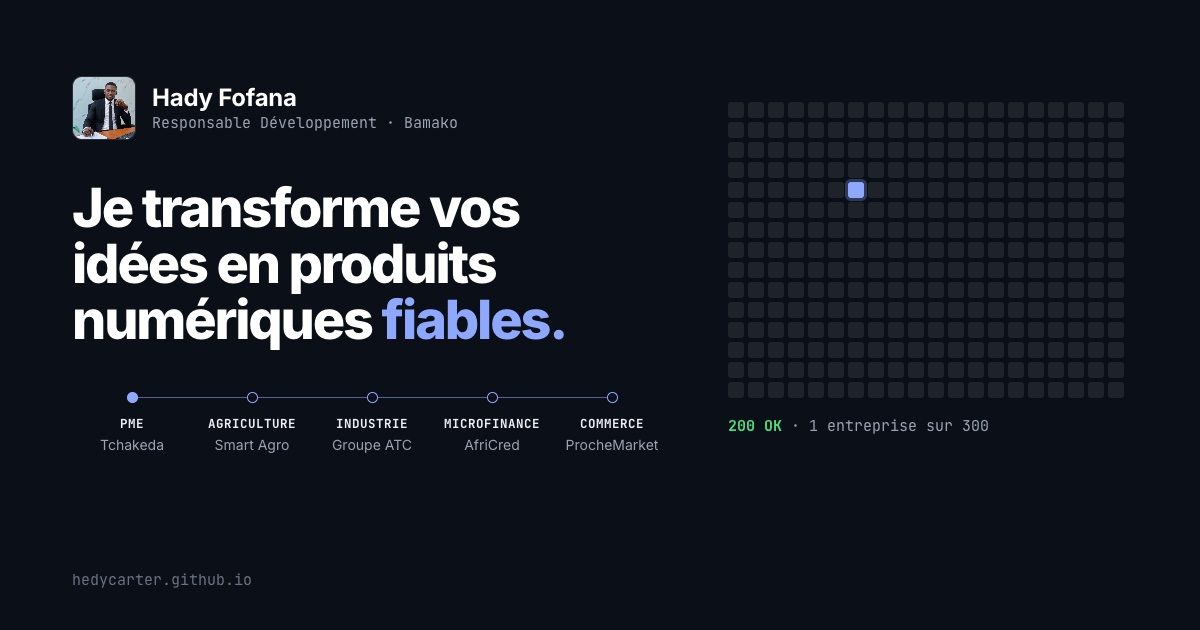
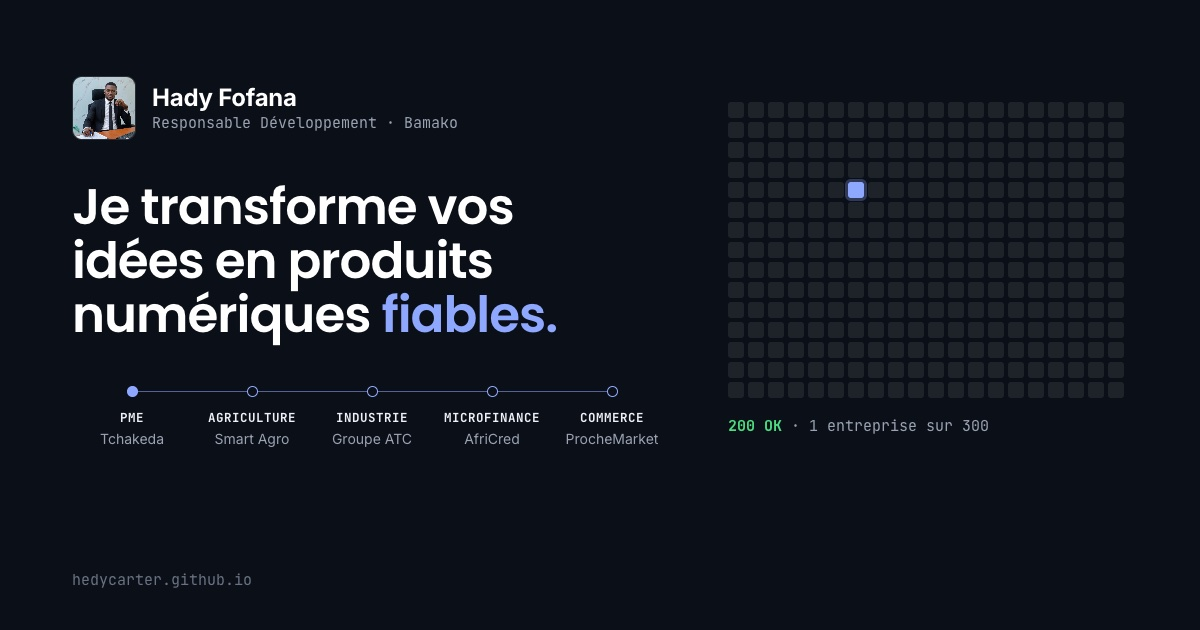
Hero : titre en Poppins
- Titre du hero en Poppins semi-gras (le reste du site reste en Inter) ;
  le mot clé (« fiables » / « reliable ») en bleu.
- Tailles recalculées pour garder trois lignes de 320 à 1920 px.
- Police de secours Arial ajustée (size-adjust 105 %) : pas de saut
  pendant le chargement de la police.
- Image de partage régénérée avec la même typographie.

Changed region(s): [[0.0617, 0.3016, 0.4933, 0.5429], [0.0925, 0.6032, 0.555, 0.7238]]

diff --git a/index.html b/index.html
@@ -67,10 +67,10 @@
   <link rel="preconnect" href="https://fonts.googleapis.com">
   <link rel="preconnect" href="https://fonts.gstatic.com" crossorigin>
   <!-- Polices et icônes chargées sans bloquer le premier affichage (le texte s'affiche d'abord en police système) -->
-  <link href="https://fonts.googleapis.com/css2?family=Inter:wght@400;500;600;700&family=JetBrains+Mono:wght@400;500&display=swap" rel="stylesheet" media="print" onload="this.media='all'">
+  <link href="https://fonts.googleapis.com/css2?family=Inter:wght@400;500;600;700&family=Poppins:wght@600&family=JetBrains+Mono:wght@400;500&display=swap" rel="stylesheet" media="print" onload="this.media='all'">
   <link href="assets/vendor/bootstrap-icons/bootstrap-icons.subset.css" rel="stylesheet" media="print" onload="this.media='all'">
   <noscript>
-    <link href="https://fonts.googleapis.com/css2?family=Inter:wght@400;500;600;700&family=JetBrains+Mono:wght@400;500&display=swap" rel="stylesheet">
+    <link href="https://fonts.googleapis.com/css2?family=Inter:wght@400;500;600;700&family=Poppins:wght@600&family=JetBrains+Mono:wght@400;500&display=swap" rel="stylesheet">
     <link href="assets/vendor/bootstrap-icons/bootstrap-icons.subset.css" rel="stylesheet">
   </noscript>
   <link href="assets/css/style.css" rel="stylesheet">
@@ -173,7 +173,7 @@
       <div class="container hero-inner">
         <div class="hero-text">
           <p class="hero-eyebrow" data-i18n="hero.eyebrow">Responsable Développement · Groupe&nbsp;Xpert&nbsp;Pro</p>
-          <h1 class="hero-title" data-i18n="hero.title">Je transforme<br> vos idées en produits<br> numériques fiables.</h1>
+          <h1 class="hero-title" data-i18n="hero.title">Je transforme<br> vos idées en produits<br> numériques <em>fiables.</em></h1>
           <p class="hero-lead" data-i18n="hero.lead">De l'architecture à la mise en production&nbsp;: applications web, mobiles et plateformes SaaS, utilisées chaque jour par de vraies entreprises.</p>
           <!-- La carte du travail : un trait relie les quatre secteurs, chacun mène à son projet -->
           <nav class="hero-map" aria-label="Mes projets par secteur" data-i18n-aria="map.label">

diff --git a/assets/css/style.css b/assets/css/style.css
@@ -392,15 +392,27 @@ button { font: inherit; color: inherit; }
   flex-shrink: 0;
 }
 
+/* Police de secours du titre : Arial ramenée à la largeur de Poppins semi-gras (mesurée : 105 %),
+   pour que le titre garde ses trois lignes pendant le chargement de la police (pas de saut). */
+@font-face {
+  font-family: "Poppins Fallback";
+  src: local("Arial");
+  size-adjust: 105%;
+}
 .hero-title {
-  /* Coupures choisies dans le texte (<br>), selon le sens : pas de petit mot seul en fin de ligne */
-  font-size: clamp(34px, 5vw, 64px);
-  font-weight: 700;
-  line-height: 1.02;
-  letter-spacing: -0.04em;
+  /* Coupures choisies dans le texte (<br>), selon le sens : pas de petit mot seul en fin de ligne.
+     Poppins pour le titre du hero seulement ; le reste du site reste en Inter.
+     Ligne la plus longue : 10,4 em ; 62 px = 642 px dans une colonne de 668 px. */
+  font-family: "Poppins", "Poppins Fallback", Arial, sans-serif;
+  font-size: clamp(36px, 4.6vw, 62px);
+  font-weight: 600;
+  line-height: 1.08;
+  letter-spacing: -0.02em;
   color: #fff;
   margin-bottom: 24px;
 }
+/* Le mot qui porte la promesse, à la couleur de la requête */
+.hero-title em { font-style: normal; color: var(--request-on-dark); }
 
 .hero-lead {
   max-width: 40ch;
@@ -496,8 +508,8 @@ button { font: inherit; color: inherit; }
   .hero { padding-top: calc(var(--header-h) + 32px); align-items: flex-start; }
   .hero-inner { grid-template-columns: 1fr; gap: 32px; }
   .hero-photo { order: -1; }
-  /* La plus longue ligne (« Je construis le logiciel ») tient dans la largeur de l'écran */
-  .hero-title { font-size: clamp(26px, 8.4vw, 52px); }
+  /* La plus longue ligne (« vos idées en produits », 10,4 em) tient dans la largeur de l'écran */
+  .hero-title { font-size: clamp(26px, 8.4vw, 46px); }
 }
 
 /* Mobile et tablette : la photo en grand, d'un bord à l'autre sous l'en-tête, cadrée sur le visage ;

diff --git a/assets/js/i18n.js b/assets/js/i18n.js
@@ -76,7 +76,7 @@ window.I18N = {
     'cs.agro.dec3.text': "Deux rôles distincts avec des droits asymétriques : les coachs publient des conseils validés, les agriculteurs interagissent et signalent des problèmes terrain. Modération intégrée pour maintenir la qualité des échanges.",
     'refs.note': 'Références professionnelles disponibles sur demande.',
     'hero.eyebrow': 'Responsable Développement · Groupe&nbsp;Xpert&nbsp;Pro',
-    'hero.title': 'Je transforme<br> vos idées en produits<br> numériques fiables.',
+    'hero.title': 'Je transforme<br> vos idées en produits<br> numériques <em>fiables.</em>',
     'hero.lead': "De l'architecture à la mise en production&nbsp;: applications web, mobiles et plateformes SaaS, utilisées chaque jour par de vraies entreprises.",
     'pf.badge.agro': 'Projet actuel · Groupe Xpert Pro',
     'pf.tchakeda.s1': 'entreprises inscrites', 'pf.tchakeda.s2': 'utilisateurs',
@@ -303,7 +303,7 @@ window.I18N = {
     'cs.agro.dec3.text': 'Two distinct roles with asymmetric rights: coaches publish validated advice, farmers interact and report field problems. Built-in moderation to maintain exchange quality.',
     'refs.note': 'Professional references available upon request.',
     'hero.eyebrow': 'Head of Development · Groupe&nbsp;Xpert&nbsp;Pro',
-    'hero.title': 'I turn your ideas<br> into reliable<br> digital products.',
+    'hero.title': 'I turn your ideas<br> into <em>reliable</em><br> digital products.',
     'hero.lead': 'From architecture to production: web and mobile apps and SaaS platforms, used every day by real businesses.',
     'pf.badge.agro': 'Current project · Groupe Xpert Pro',
     'pf.tchakeda.s1': 'registered companies', 'pf.tchakeda.s2': 'users',

diff --git a/assets/js/motion.js b/assets/js/motion.js
@@ -486,7 +486,7 @@
       var done = false;
       function go() { if (!done) { done = true; fn(); } }
       if (doc.fonts && doc.fonts.load) {
-        Promise.all([doc.fonts.load('700 48px Inter'), doc.fonts.load('400 20px Inter')])
+        Promise.all([doc.fonts.load('600 48px Poppins'), doc.fonts.load('400 20px Inter')])
           .then(function () { return doc.fonts.ready; }).then(go, go);
         setTimeout(go, 700);
       } else { go(); }
